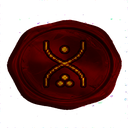
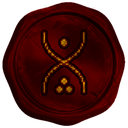
Updated seal again, removing background aritifacts

diff --git a/src/config/email/ch2-briefing.html b/src/config/email/ch2-briefing.html
@@ -71,7 +71,7 @@
 
 <!-- Wax seal -->
 <tr><td align="center" style="padding:16px 0 40px;">
-  <img src="https://giltframe.org/marker/seal-v1-256.png" alt="Seal of the Order" width="48" height="48" style="display:block;border:0;outline:none;opacity:0.7;">
+  <img src="https://giltframe.org/marker/seal-v1-256.png" alt="Seal of the Order" width="120" height="120" style="display:block;border:0;outline:none;opacity:0.85;">
 </td></tr>
 
 </table>

diff --git a/src/config/email/ch2-debrief.html b/src/config/email/ch2-debrief.html
@@ -69,7 +69,7 @@
 
 <!-- Wax seal -->
 <tr><td align="center" style="padding:16px 0 40px;">
-  <img src="https://giltframe.org/marker/seal-v1-256.png" alt="Seal of the Order" width="48" height="48" style="display:block;border:0;outline:none;opacity:0.7;">
+  <img src="https://giltframe.org/marker/seal-v1-256.png" alt="Seal of the Order" width="120" height="120" style="display:block;border:0;outline:none;opacity:0.85;">
 </td></tr>
 
 </table>

diff --git a/src/config/email/ch2-mid-gap.html b/src/config/email/ch2-mid-gap.html
@@ -68,7 +68,7 @@
 
 <!-- Wax seal -->
 <tr><td align="center" style="padding:16px 0 40px;">
-  <img src="https://giltframe.org/marker/seal-v1-256.png" alt="Seal of the Order" width="48" height="48" style="display:block;border:0;outline:none;opacity:0.7;">
+  <img src="https://giltframe.org/marker/seal-v1-256.png" alt="Seal of the Order" width="120" height="120" style="display:block;border:0;outline:none;opacity:0.85;">
 </td></tr>
 
 </table>

diff --git a/src/config/email/ch1-briefing.html b/src/config/email/ch1-briefing.html
@@ -114,9 +114,9 @@
   <img
     src="https://giltframe.org/marker/seal-v1-256.png"
     alt="Seal of the Order"
-    width="48"
-    height="48"
-    style="display:block;border:0;outline:none;opacity:0.7;"
+    width="120"
+    height="120"
+    style="display:block;border:0;outline:none;opacity:0.85;"
   >
 </td></tr>
 
